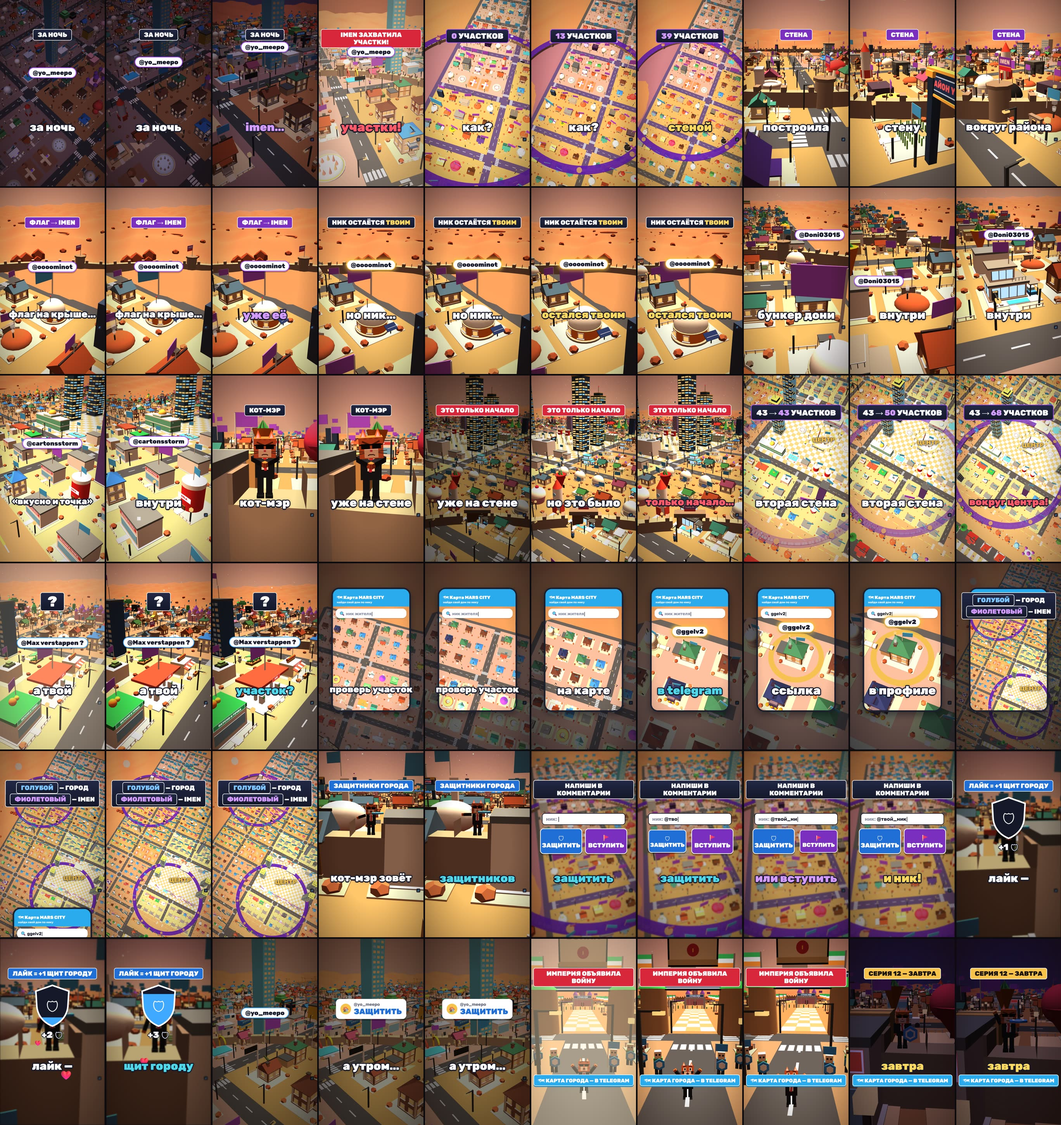
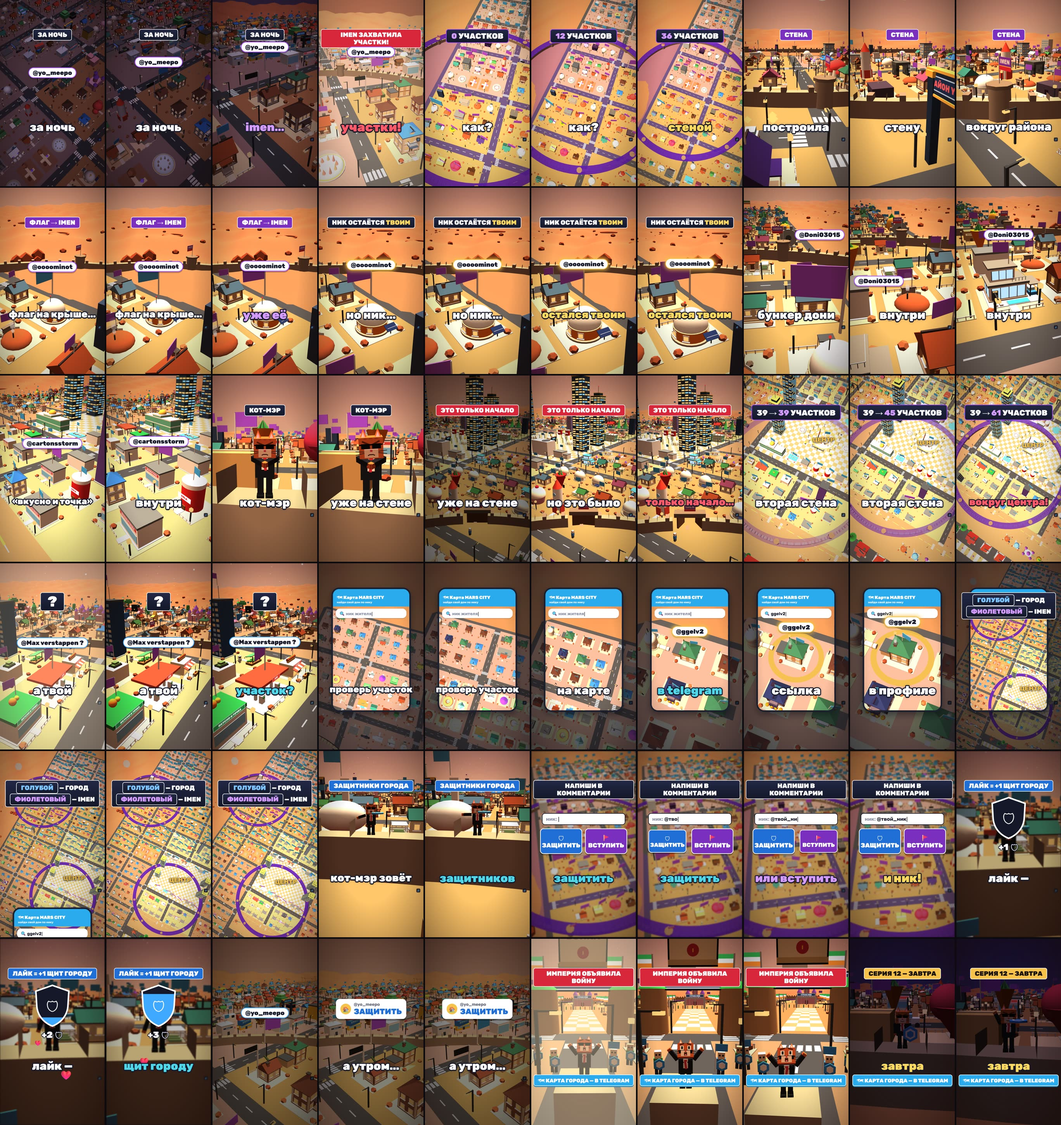
Серия 11: у стен только башни, кот стоит на стене открыто, у ворот Imen — на постаменте
- дома и постройки вплотную к линии стен убраны (81 объект), флаги — только у видимых домов
- зубцы рядом с котом убраны, он стоит на площадке стены, а не «в стене»
- у ворот Страны Imen кот на каменном постаменте — выше субтитров и плашки Telegram
- обновлено превью gotovo/11-zahvat-kadry.jpg

diff --git a/render/seriya/11-zahvat/seriya.js b/render/seriya/11-zahvat/seriya.js
@@ -112,32 +112,39 @@ function setWall(Wl,k,open,flagK){const T=W.T,m=new T.Matrix4(),q=new T.Quaterni
   const u=b.gate?0:cl(0,1,(k*1.12-da)/.12),h=ss(u);
   e.set(0,-b.a-Math.PI/2,0);q.setFromEuler(e);
   p.set(r.cx+Math.cos(b.a)*r.R,1.7*h,r.cz+Math.sin(b.a)*r.R);s.set(1,Math.max(.001,h),1);m.compose(p,q,s);Wl.im.setMatrixAt(i,m);
-  p.y=3.4*h+.5;s.set(i%2?1:.001,Math.max(.001,h),1);m.compose(p,q,s);Wl.ie.setMatrixAt(i,m)}
+  const nc=Wl.catA!=null&&Math.abs(((b.a-Wl.catA)%(2*Math.PI)+3*Math.PI)%(2*Math.PI)-Math.PI)*r.R<4.5;p.y=3.4*h+.5;s.set(i%2&&!nc?1:.001,Math.max(.001,h),1);m.compose(p,q,s);Wl.ie.setMatrixAt(i,m)}
  Wl.im.instanceMatrix.needsUpdate=true;Wl.ie.instanceMatrix.needsUpdate=true;
  Wl.tw.forEach(g=>{const b=bl[g.userData.i];const da=Math.abs(((b.a-Wl.start)%(2*Math.PI)+3*Math.PI)%(2*Math.PI)-Math.PI)/Math.PI;const h=ss(cl(0,1,(k*1.12-da)/.12));
   g.scale.set(1,Math.max(.001,h),1);g.userData.fl.visible=flagK>0;g.userData.fl.scale.setScalar(Math.max(.001,flagK))});
  if(Wl.gate){Wl.gate.visible=k>.98;const o=ss(open)*1.35;Wl.gate.userData.dl.rotation.y=o;Wl.gate.userData.dr.rotation.y=-o}}
 const inR=(h,r)=>Math.hypot(h.x-r.cx,h.z-r.cz)<r.R-2;
-function prep(w){const T=w.THREE,sc=w.eval('sc'),L=w.MLIST||w.eval('MLIST');Object.assign(W,{T,sc,L,cam:w.eval('cam')});
+function prep(w){const T=w.THREE,sc=w.eval('sc'),L=w.MLIST||w.eval('MLIST');Object.assign(W,{T,sc,L,cam:w.eval('cam')});const MAP0=[...sc.children];
  const F=re=>L.find(h=>re.test(h.n)&&h.g);
  const H={yo:F(/^yo_meepo$/i),goku:F(/^oooominot$/i),doni:F(/^Doni03015$/i),vit:F(/^cartonsstorm$/i),max:F(/^Max verstappen$/i),gg:F(/^ggelv2$/i),kot:F(/^KAPAOKE_KOT$/)};
  for(const k in H)if(!H[k]){console.log('нет дома',k);H[k]={x:162,z:-64,top:6,n:k}}W.H=H;
  const ring=(hs,pad)=>{const cx=hs.reduce((s,h)=>s+h.x,0)/hs.length,cz=hs.reduce((s,h)=>s+h.z,0)/hs.length;return{cx,cz,R:Math.max(...hs.map(h=>Math.hypot(h.x-cx,h.z-cz)))+pad}};
  const r1=ring([H.yo,H.goku,H.doni],22),r2=ring([H.kot,H.vit,H.max],22);W.r1=r1;W.r2=r2;
+ {const keep=new Set(Object.values(H).map(h=>h.g)),band=(x,z)=>[r1,r2].some(r=>Math.abs(Math.hypot(x-r.cx,z-r.cz)-r.R)<7);let nh=0;
+  L.forEach(h=>{if(h.g&&!keep.has(h.g)&&band(h.x,h.z)){h.g.visible=false;h.hid=true;nh++}});
+  const bx=new T.Box3(),sz=new T.Vector3(),v=new T.Vector3();
+  MAP0.forEach(o=>{if(!o.visible||keep.has(o)||o.isLight||o.isInstancedMesh)return;o.getWorldPosition(v);if(!v.x&&!v.z)return;if(!band(v.x,v.z))return;
+   bx.setFromObject(o);bx.getSize(sz);if(Math.max(sz.x,sz.z)<24&&sz.y<40){o.visible=false;nh++}});console.log('убрано у стен',nh)}
  W.aYo=Math.atan2(H.yo.z-r1.cz,H.yo.x-r1.cx);W.aG=Math.atan2(r2.cz-r1.cz,r2.cx-r1.cx);
  W.ftex=texIMEN(w);
  W.w1=mkWall(w,r1,W.aG);W.w1.start=W.aYo+Math.PI;
  {const ta=W.w1.tw.map(g=>W.w1.bl[g.userData.i].a).sort((a,b)=>a-b),mids=ta.map((a,i)=>i<ta.length-1?(a+ta[i+1])/2:(a+ta[0]+2*Math.PI)/2),dA=(a,b)=>Math.abs(((a-b)%(2*Math.PI)+3*Math.PI)%(2*Math.PI)-Math.PI);
   W.aCat=mids.filter(a=>dA(a,W.aG)>.12).sort((a,b)=>dA(a,W.aG+.3)-dA(b,W.aG+.3))[0]}W.w2=mkWall(w,r2,null);W.w2.start=Math.atan2(r1.cz-r2.cz,r1.cx-r2.cx)+Math.PI;
  // флаги на крышах: голубой — город, фиолетовый — IMEN
- const FL=L.filter(h=>h.g&&!h.anon&&!h.site&&!h.bld&&h.day<=10&&h.top);W.FL=FL;
+ const FL=L.filter(h=>h.g&&!h.hid&&!h.anon&&!h.site&&!h.bld&&h.day<=10&&h.top);W.FL=FL;
  FL.forEach(h=>{h.r1=inR(h,r1);h.r2=!h.r1&&inR(h,r2);h.im=h.district==='Страна Imen'});
  W.N1=FL.filter(h=>h.r1).length;W.N2=FL.filter(h=>h.r2).length;console.log('участков внутри стен',W.N1,W.N2);
  W.pole=new T.InstancedMesh(new T.CylinderGeometry(.08,.08,1,5),new T.MeshLambertMaterial({color:0xe8ecf2}),FL.length);
  W.cloth=new T.InstancedMesh(new T.BoxGeometry(2.3,1.45,.07),new T.MeshLambertMaterial({color:0xffffff}),FL.length);
  const c0=new T.Color(0x3fa8ff);FL.forEach((h,i)=>W.cloth.setColorAt(i,c0));sc.add(W.pole);sc.add(W.cloth);
  // кот-мэр и защитники
- W.cat=mkCat(T);W.cat.visible=false;sc.add(W.cat);
+ W.w1.catA=W.aCat;W.cat=mkCat(T);W.cat.visible=false;sc.add(W.cat);
+ // постамент у ворот Imen — кот выше субтитров
+ W.ped=new T.Mesh(new T.BoxGeometry(2.8,1.9,2.8),new T.MeshLambertMaterial({color:0x8d7a68}));W.ped.position.set(42,.95,90);W.ped.visible=false;sc.add(W.ped);
  W.men=[];for(let i=0;i<10;i++){const g=mkMan(T,i);g.visible=false;sc.add(g);W.men.push(g)}
  // подсветка дома ggelv2 и свиток войны на воротах Страны Imen
  W.hl=new T.Mesh(new T.RingGeometry(6.5,8,48),new T.MeshBasicMaterial({color:0xf7c24a,transparent:true,opacity:0,side:T.DoubleSide,depthWrite:false}));W.hl.rotation.x=-Math.PI/2;W.hl.position.set(H.gg.x,.4,H.gg.z);sc.add(W.hl);
@@ -229,7 +236,7 @@ window.seek=function(tv){const t=MAPT(tv);
  W.pole.instanceMatrix.needsUpdate=true;W.cloth.instanceMatrix.needsUpdate=true;W.cloth.instanceColor.needsUpdate=true;
  // кот-мэр: на стене с 11 с, у Страны Imen 27,5–29, в финале на стене у дома yo_meepo
  const cat=W.cat,ud=cat.userData;let cp=null;
- if(t>=11&&t<27.5||t>=29)cp={x:W.catW.x,z:W.catW.z,y:3.4};else if(t>=27.5&&t<29)cp={x:42,z:92,y:0};
+ if(t>=11&&t<27.5||t>=29)cp={x:W.catW.x,z:W.catW.z,y:3.4};else if(t>=27.5&&t<29)cp={x:42,z:90,y:1.9};
  // положение камеры этого кадра (W.cam ещё с прошлого кадра — на склейке кот смотрел бы не туда)
  const K=MP.K,cpk=Math.cos(K.p),cm={x:K.tx+Math.sin(K.yaw)*cpk*K.d,z:K.tz+Math.cos(K.yaw)*cpk*K.d};
  cat.visible=!!cp;if(cp){cat.position.set(cp.x,cp.y,cp.z);cat.rotation.y=Math.atan2(cm.x-cp.x,cm.z-cp.z);
@@ -261,7 +268,7 @@ window.seek=function(tv){const t=MAPT(tv);
   else if(t>=27.5&&t<29){on=true;g.position.set(42+(i<5?-1:1)*(2.4+(i%5)*1.7),0,95+(i%5)*1.4)}
   g.visible=on;if(on){g.rotation.y=Math.atan2(cm.x-g.position.x,cm.z-g.position.z)}});
  W.hl.material.opacity=t>=18.3&&t<19.5?.9:0;W.hl.scale.setScalar(1+.08*Math.sin(t*12));
- W.scroll.visible=t>=27.5&&t<29;
+ W.scroll.visible=t>=27.5&&t<29;W.ped.visible=W.scroll.visible;
  // ники карты в серии не нужны — свои крупные плашки
  const d=w.document;if(!d.getElementById('vcs')){const st=d.createElement('style');st.id='vcs';st.textContent='.mpn{display:none!important}';d.head.appendChild(st)}
  MP.draw();
